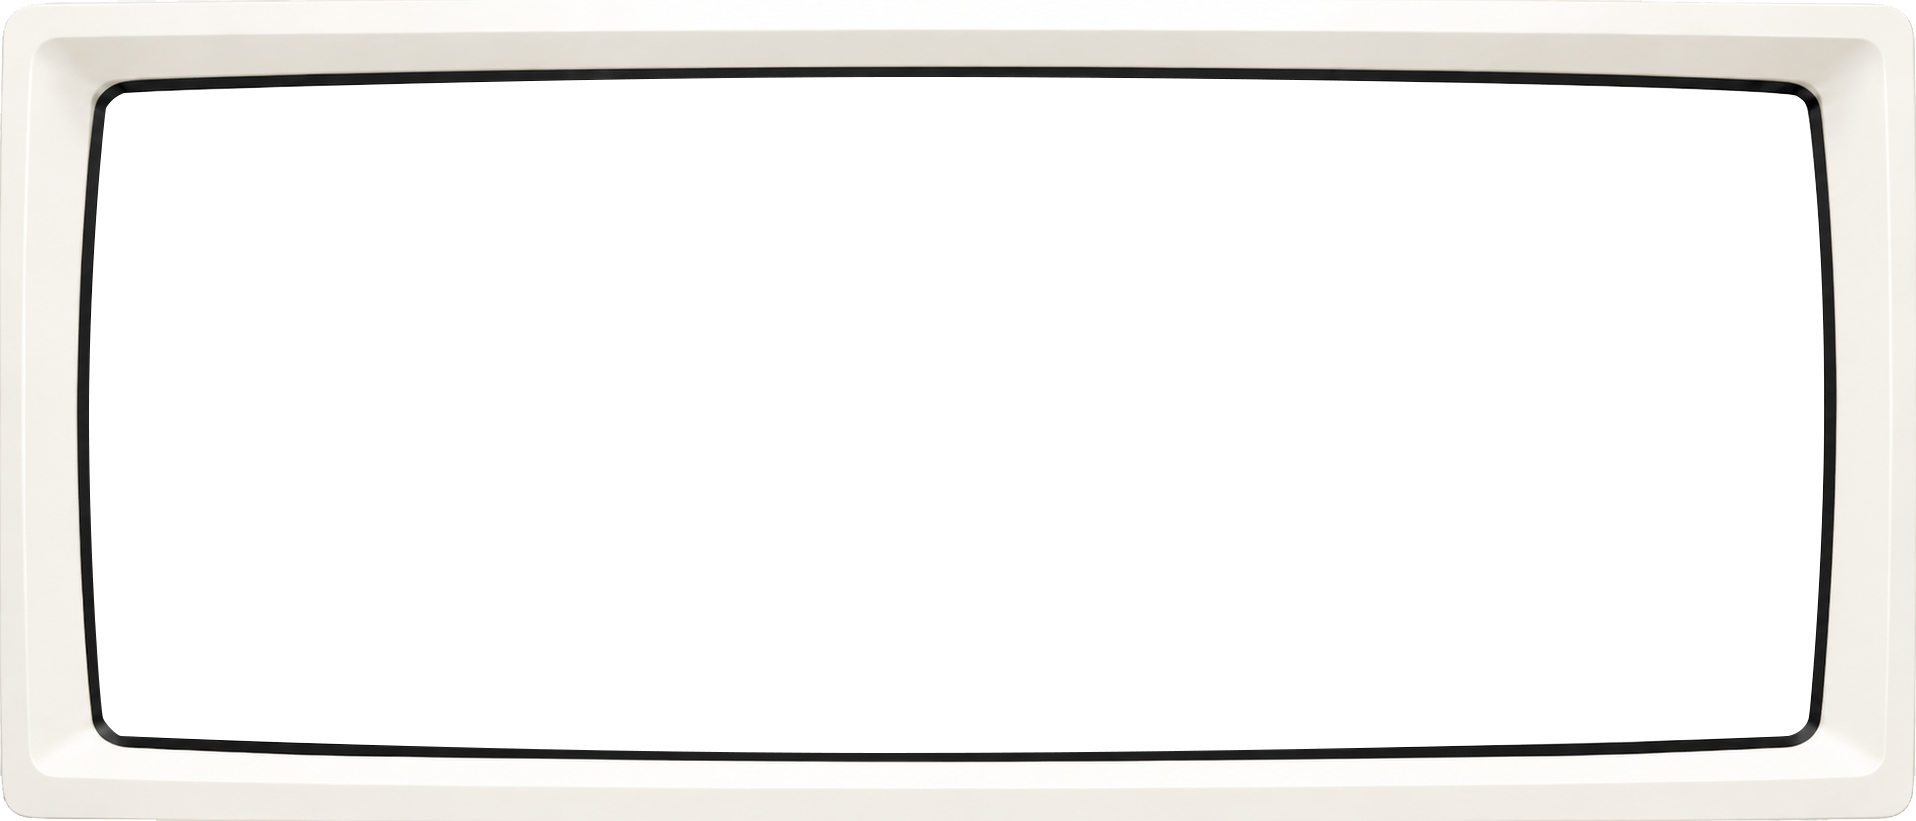
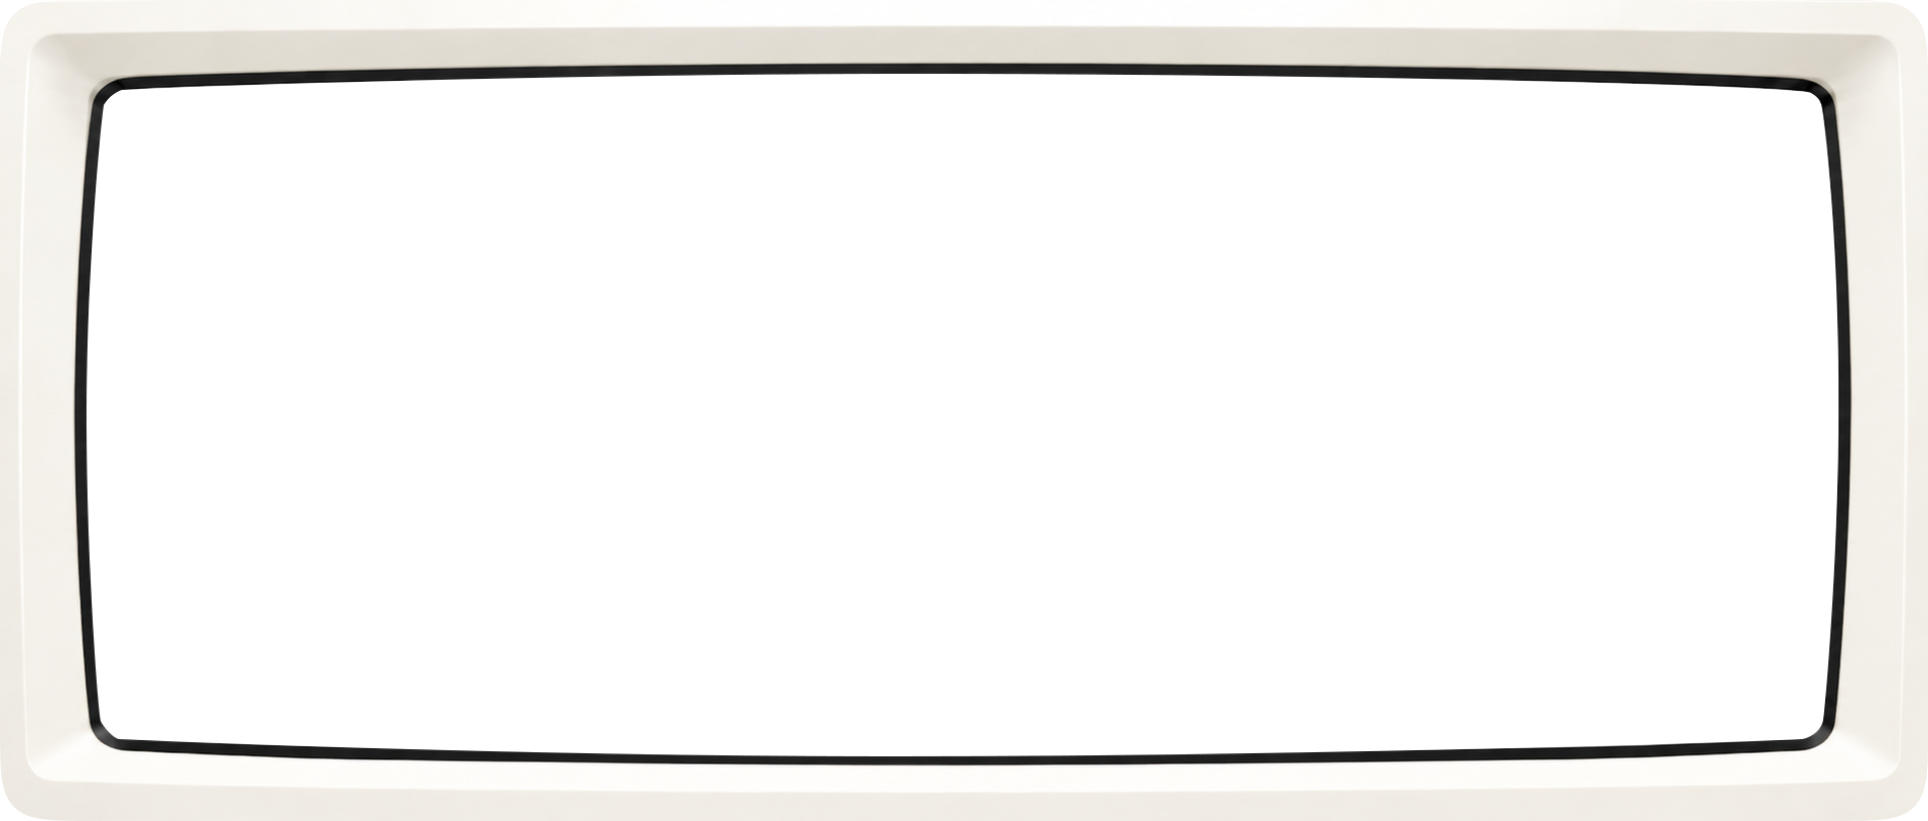
Refine homepage promotion and composer interactions

diff --git a/src/app/prototypes/homepage/page.tsx b/src/app/prototypes/homepage/page.tsx
@@ -32,6 +32,9 @@ const memberPromoAssets = {
   tool: "/prototypes/homepage/member-tool.svg",
   history: "/prototypes/homepage/member-history.svg",
 };
+const festivalPopupAssets = {
+  background: "/prototypes/homepage/new-model-festival-light-bg.png",
+};
 const freePromoAssets = {
   dots: "/prototypes/homepage/free-dots.svg",
   orb: "/prototypes/homepage/free-orb.png",
@@ -935,9 +938,9 @@ export function HomepageContent({
       </section>
 
       <section className="px-3 py-4 sm:px-5 sm:py-6 lg:px-6">
-        <div className="mx-auto max-w-[1600px] overflow-hidden rounded-[24px] border border-[#ececf1] bg-white shadow-[0_4px_16px_rgba(26,26,46,0.04)]">
+        <div className="relative mx-auto max-w-[1600px]">
           {/* 电视机外框笼罩视频:视频铺底,边框图叠上,满宽贴合卡片左/右/上边缘 */}
-          <div className="relative aspect-[1916/821]">
+          <div className="relative z-10 aspect-[1928/821] overflow-hidden bg-transparent">
             {/* 视频严格限制在内屏红框内(容器 overflow-hidden 防止溢出),略盖边框黑线避免角缝 */}
             <div className="absolute overflow-hidden" style={{ top: "8.4%", bottom: "7.3%", left: "4%", right: "4.1%" }}>
               <video autoPlay muted loop playsInline src={ASSETS.seedance} className="size-full object-cover" />
@@ -945,8 +948,8 @@ export function HomepageContent({
             <img src="/prototypes/homepage/tv-frame.png" alt="" aria-hidden className="pointer-events-none absolute inset-0 size-full select-none" />
           </div>
 
-          {/* 下方信息流 */}
-          <div className="p-4 pt-6 sm:p-6 lg:p-8">
+          {/* 白色画布从电视内屏下缘向下延伸，和 Marketing Agent 卡片的结构保持一致。 */}
+          <div className="relative z-0 -mt-[7.3%] overflow-hidden rounded-[24px] border border-[#ececf1] bg-white p-4 pt-[calc(7.3%+1rem)] shadow-[0_4px_16px_rgba(26,26,46,0.04)] sm:p-6 sm:pt-[calc(7.3%+1.5rem)] lg:p-8 lg:pt-[calc(7.3%+2rem)]">
             <MasonryStream items={seedanceStream} cta="Explore Seedance gallery" ctaHref="/prototypes/seedance-gallery" maxH="max-h-[1100px]" cols="columns-2 lg:columns-3" />
           </div>
         </div>
@@ -1091,9 +1094,71 @@ function HomepageToaster() {
   );
 }
 
+function NewModelFestivalModal({ onClose }: { onClose: () => void }) {
+  useEffect(() => {
+    const handleKeyDown = (event: KeyboardEvent) => {
+      if (event.key === "Escape") onClose();
+    };
+
+    window.addEventListener("keydown", handleKeyDown);
+    return () => window.removeEventListener("keydown", handleKeyDown);
+  }, [onClose]);
+
+  const offers = [
+    { name: "Seedream 5.0 Pro", status: "LIVE NOW", icon: ICONS.image, active: true },
+    { name: "Seedance 2.5", status: "COMING SOON", icon: ICONS.video, active: false },
+  ] as const;
+
+  return (
+    <>
+      <input id="new-model-festival-dismiss" type="checkbox" className="peer fixed left-0 top-0 size-px opacity-0" aria-label="Dismiss new model festival offer" />
+      <div className="fixed inset-0 z-[100] grid place-items-center overflow-y-auto bg-[#31222c]/35 p-3 backdrop-blur-[3px] peer-checked:hidden sm:p-6" role="presentation">
+        <section role="dialog" aria-modal="true" aria-labelledby="new-model-festival-title" className="relative w-full max-w-[650px] overflow-hidden rounded-[32px] border border-[#ffc8b1] bg-[#fffaf8] text-[#1a1a2e] shadow-[0_28px_90px_rgba(61,34,43,0.36)] sm:scale-[0.6] sm:rounded-[38px]">
+          <Image src={festivalPopupAssets.background} alt="" fill priority sizes="(max-width: 680px) 100vw, 650px" className="pointer-events-none object-cover" />
+          <div aria-hidden className="pointer-events-none absolute inset-0 bg-[linear-gradient(180deg,rgba(255,255,255,0.08),rgba(255,250,248,0.4)_36%,rgba(255,250,248,0.58))]" />
+          <label htmlFor="new-model-festival-dismiss" role="button" tabIndex={0} aria-label="Close new model festival offer" onClick={onClose} onKeyDown={(event) => { if (event.key === "Enter" || event.key === " ") onClose(); }} className="absolute right-4 top-4 z-20 grid size-11 place-items-center rounded-full border border-[#f8c3b1] bg-white/85 text-3xl font-light leading-none text-[#645767] shadow-sm transition hover:scale-105 hover:border-[#ef7a5b] sm:right-6 sm:top-6 sm:size-14 sm:text-4xl">
+            <span aria-hidden className="-mt-1">×</span>
+          </label>
+
+          <div className="relative z-10 flex min-h-[min(437px,calc(100svh-24px))] flex-col px-5 pb-4 pt-8 sm:min-h-[760px] sm:px-10 sm:pb-10 sm:pt-[108px]">
+            <div className="mx-auto flex flex-wrap justify-center gap-1.5 sm:gap-3">
+              <span className="inline-flex items-center gap-1.5 rounded-full border border-[#ff9a78] bg-white/85 px-3 py-1.5 text-[9px] font-black tracking-[0.15em] text-[#ed6547] shadow-[0_4px_16px_rgba(244,118,82,0.2)] sm:gap-2 sm:px-5 sm:py-2.5 sm:text-[13px] sm:tracking-[0.19em]">⚡ LIMITED TIME</span>
+              <span className="inline-flex items-center gap-1.5 rounded-full border border-[#ff9a78] bg-white/85 px-3 py-1.5 text-[9px] font-black tracking-[0.15em] text-[#3c3440] shadow-[0_4px_16px_rgba(244,118,82,0.2)] sm:gap-2 sm:px-5 sm:py-2.5 sm:text-[13px] sm:tracking-[0.19em]">✦ NEW MODEL FESTIVAL</span>
+            </div>
+
+            <div className="mt-4 border-t border-[#f6ae97]/80 pt-3 text-center sm:mt-5 sm:pt-4">
+              <p className="mx-auto w-fit max-w-full whitespace-nowrap px-2 py-1 bg-gradient-to-br from-[#ff5255] via-[#ff7652] to-[#ffa73c] bg-clip-text text-[clamp(75px,16vw,120px)] font-bold leading-[1.06] tracking-[-0.08em] text-transparent drop-shadow-[0_8px_30px_rgba(255,112,76,0.2)] sm:px-2 sm:py-2 sm:text-[clamp(120px,24vw,210px)] sm:leading-none">35%</p>
+              <h2 id="new-model-festival-title" className={`${bricolageExtraBold.className} mt-3 text-[clamp(32px,7.5vw,48px)] font-bold leading-none tracking-[-0.065em] text-[#1a1a2e] sm:mt-4 sm:text-[clamp(38px,8.2vw,64px)]`}>Extra credits</h2>
+            </div>
+
+            <div className="mt-4 grid gap-3 sm:-mx-4 sm:mt-5 sm:grid-cols-2 sm:gap-4">
+              {offers.map(({ name, status, icon, active }) => (
+                <div key={name} className="flex min-h-[104px] items-center gap-4 rounded-[22px] border border-[#ffc1aa] bg-white/75 px-4 py-2.5 shadow-[inset_0_0_24px_rgba(255,142,101,0.08),0_6px_18px_rgba(179,97,74,0.09)] sm:min-h-[138px] sm:px-5 sm:py-3.5">
+                  <span className="grid size-12 shrink-0 place-items-center rounded-2xl border border-[#ffad91] bg-[#fff3ed]/85 shadow-[0_4px_14px_rgba(244,115,78,0.16)] sm:size-[68px]"><Image src={icon} alt="" width={44} height={44} className="size-9 [filter:invert(57%)_sepia(78%)_saturate(1900%)_hue-rotate(332deg)_brightness(101%)_contrast(89%)] sm:size-11" /></span>
+                  <div className="min-w-0"><p className="whitespace-nowrap text-[18px] font-bold tracking-[-0.035em] text-[#1a1a2e] sm:text-[21px]">{name}</p><span className={`mt-2 inline-flex items-center gap-2 rounded-full border px-2.5 py-1 text-[10px] font-black tracking-[0.15em] ${active ? "border-[#ffab90] bg-[#fff3ed] text-[#ed6547]" : "border-[#d5afba] bg-[#fff6f7] text-[#936b79]"}`}><span className={`size-2 rounded-full ${active ? "bg-[#f46e52]" : "border border-current"}`} />{status}</span></div>
+                </div>
+              ))}
+            </div>
+
+            <button type="button" onClick={onClose} className="relative mt-4 flex w-full items-center justify-center gap-3 rounded-[26px] bg-[linear-gradient(180deg,#ff5d61_0%,#ff8c43_100%)] px-6 py-3 text-[clamp(20px,4vw,31px)] font-extrabold tracking-[-0.04em] text-white shadow-[0_6px_0_#a95040,0_10px_18px_rgba(255,99,73,0.22)] transition hover:-translate-y-0.5 hover:brightness-105 active:translate-y-[3px] active:shadow-[0_3px_0_#a95040] sm:-mx-4 sm:mt-6 sm:w-[calc(100%+2rem)] sm:py-5">
+              <span>Get bonus credits</span><Image src={memberPromoAssets.sparkle} alt="" width={26} height={26} className="size-[1em] brightness-0 invert" />
+            </button>
+          </div>
+        </section>
+      </div>
+    </>
+  );
+}
+
 export default function HomepagePrototype() {
   const [promoUserState, setPromoUserState] = useState<PromoUserState>("logged-out");
   const [promoOfferPreviewState, setPromoOfferPreviewState] = useState<PromoOfferPreviewState>("countdown");
+  const [showNewModelFestival, setShowNewModelFestival] = useState(true);
+
+  const closeNewModelFestival = () => {
+    setShowNewModelFestival(false);
+    window.requestAnimationFrame(() => window.scrollTo(0, 0));
+  };
 
   return (
     <div className="min-h-screen bg-white text-[#1a1a2e]" style={{ fontFamily: APPLE_FONT }}>
@@ -1232,6 +1297,8 @@ export default function HomepagePrototype() {
           </Link>
         ))}
       </nav>
+
+      {showNewModelFestival && <NewModelFestivalModal onClose={closeNewModelFestival} />}
     </div>
   );
 }

diff --git a/src/app/prototypes/marketing-agent-v14/page.tsx b/src/app/prototypes/marketing-agent-v14/page.tsx
@@ -569,7 +569,6 @@ export function MarketingAgentPromptComposer({
   const [resolution, setResolution] = useState("Low");
   const [aspectRatio, setAspectRatio] = useState("1:1");
   const lastScrollY = useRef(0);
-  const isHovered = useRef(false);
 
   useEffect(() => {
     if (!openMenu) return;
@@ -586,7 +585,6 @@ export function MarketingAgentPromptComposer({
 
   useEffect(() => {
     if (!scrollReactive) return;
-
     lastScrollY.current = window.scrollY;
     const handleScroll = () => {
       const currentScrollY = window.scrollY;
@@ -594,7 +592,7 @@ export function MarketingAgentPromptComposer({
 
       if (scrollDelta < -4) {
         setExpanded(true);
-      } else if (scrollDelta > 4 && !isHovered.current) {
+      } else if (scrollDelta > 4) {
         setExpanded(false);
         setOpenMenu(null);
       }
@@ -620,16 +618,7 @@ export function MarketingAgentPromptComposer({
   }, []);
 
   return (
-    <div
-      className={className}
-      onMouseEnter={() => {
-        isHovered.current = true;
-        setExpanded(true);
-      }}
-      onMouseLeave={() => {
-        isHovered.current = false;
-      }}
-    >
+    <div className={className}>
       <div className="rounded-[22px] border border-[#ececf1] bg-white/95 shadow-[0_20px_50px_rgba(26,26,46,0.18)] backdrop-blur-xl transition-all duration-300 focus-within:border-[#ff5e1a] focus-within:ring-2 focus-within:ring-[#ff5e1a]/20">
         {expanded ? (
           <div className="p-3">
